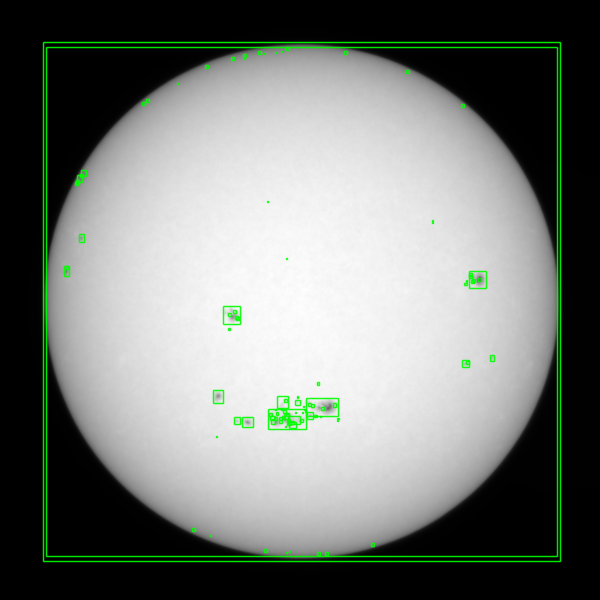
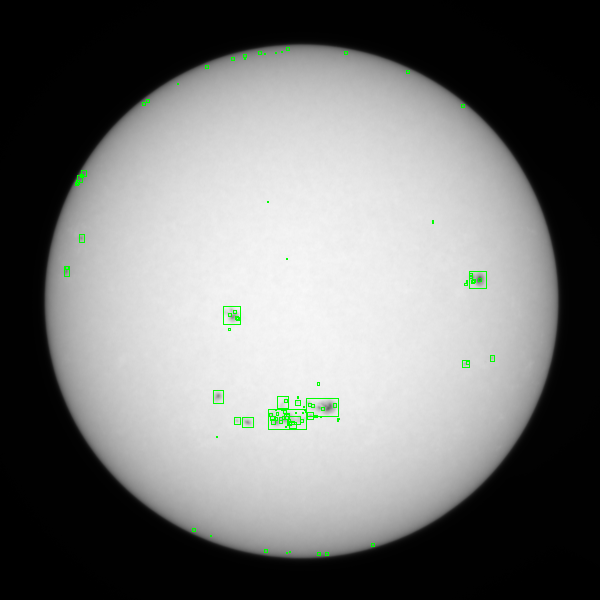
run/feat: 縁の除去に成功 #4 #7 #1

diff --git a/isoline_map.py b/isoline_map.py
@@ -80,7 +80,9 @@ if __name__ == "__main__":
     image_ext = ".png"
 
     sigma_threshold = 600  # int16bit 想定
-    min_area = 0
+
+    min_area = 0  # 指定した面積（ピクセル数）未満のノイズを除外する閾値 (0~)
+    diame_ratio = 0.5  # 縁と判断される bbox の 長辺 の 太陽直径 に対する 最小 の 割合 (0.0~1.0)
 
     line_color_BGR = (0, 255, 0)
     line_thickness = 1
@@ -108,6 +110,12 @@ if __name__ == "__main__":
     logger.info("処理を開始しました")
     logger.info("ロガー経由のメッセージです")
 
+    # param_valid
+    if min_area < 0:
+        raise ValueError("param.min_area should be 0 or greater.")
+    if diame_ratio < 0 or diame_ratio > 1.0:
+        raise ValueError("param.diameter ratio should fall between 0 and 1. ")
+
     for i, INPUT_DIR_NAME in enumerate(INPUT_DIR_NAMES):
         logger.info(f"=== SunSpots highlight process ({i + 1} / {len(INPUT_DIR_NAMES)}) ===")
         logger.info(f" current = {INPUT_DIR_NAME}")
@@ -125,9 +133,8 @@ if __name__ == "__main__":
         utils.check_exist_mkdir(thresh_path)
 
         #  INPUT_DIR 内の 全画像 と その座標リストを取得
-        frames, centers = utils.extract_sun_min2(
-            INPUT_DIR, h_size=CROP_H, w_size=CROP_W
-        )  # frames: NDArray[NDArray[np.uint16]]
+        frames, stats = utils.extract_sun_min2(INPUT_DIR, h_size=CROP_H, w_size=CROP_W)
+        mean_r = stats[:, 2].mean()
 
         if DEBUGMODE:
             logger.debug(f"frames size:{frames.size}")
@@ -142,15 +149,32 @@ if __name__ == "__main__":
         # contours を取得
         contours, _ = cv2.findContours(thresh_uint8, cv2.RETR_TREE, cv2.CHAIN_APPROX_SIMPLE)
 
-        # bound boxes を取得
-        bboxes = get_contour_bboxes(contours)
-
         if BOUND:
+            un_compatible_Fcnt = []
             highlights_Fcnt = []
-            for x, y, w, h in bboxes:
+            for i, cnt in enumerate(contours):
+                compatible = True
+
+                x, y, w, h = cv2.boundingRect(cnt)
+                area = cv2.contourArea(cnt)
+                logger.debug(
+                    f"検出された bbox{str(i).zfill(len(str(len(contours))))} (x,y,w,h,area):{x, y, w, h, area} "
+                )
+
                 pts = np.array([[x, y], [x + w, y], [x + w, y + h], [x, y + h]], dtype=np.int32)
                 pts = pts.reshape((-1, 1, 2))
-                highlights_Fcnt.append(pts)
+
+                if area < min_area:
+                    compatible = False
+                    logger.debug(f"ノイズとして除外しました bbox:{x, y, w, h}")
+                elif np.max([w, h]) >= mean_r:
+                    compatible = False
+                    logger.debug(f"縁として除外しました bbox:{x, y, w, h}")
+
+                if compatible:
+                    highlights_Fcnt.append(pts)
+                else:
+                    un_compatible_Fcnt.append(pts)
         else:
             highlights_Fcnt = contours
 
